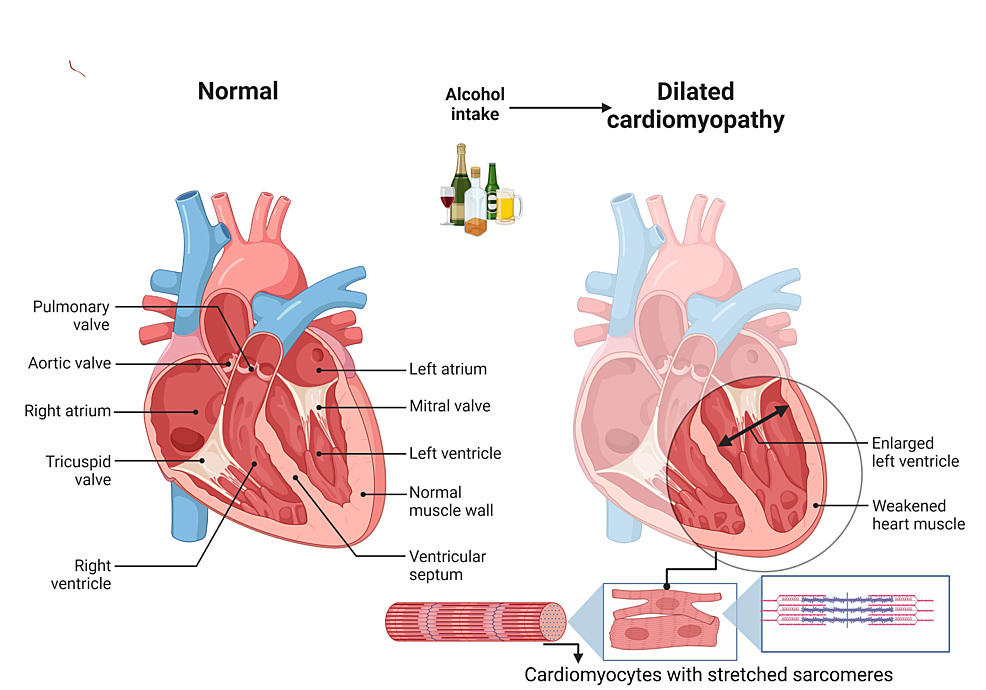
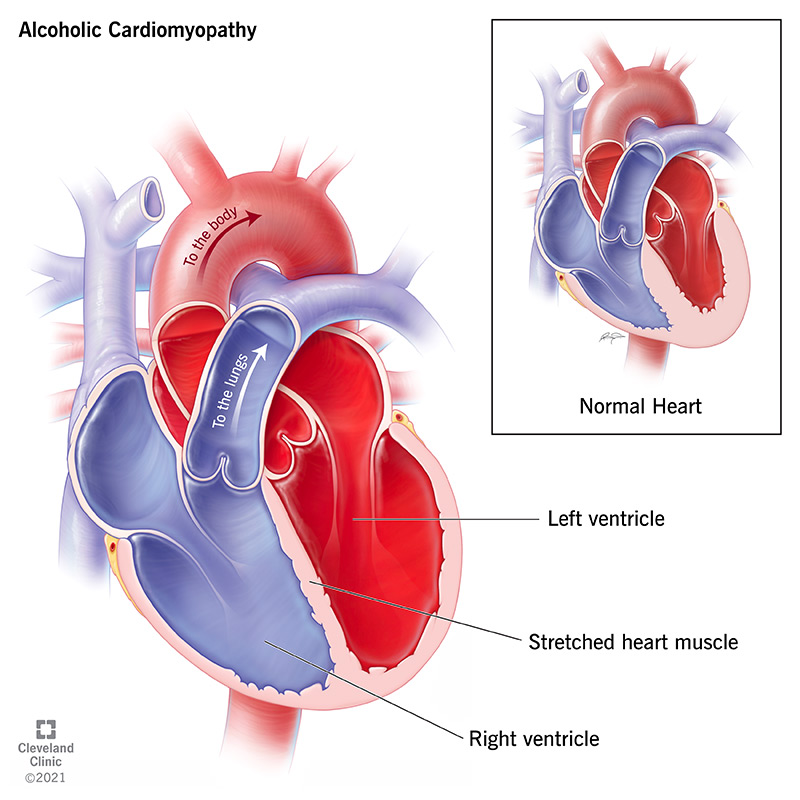
image

diff --git a/site/branding.html b/site/branding.html
@@ -132,7 +132,7 @@
 					</aside>
 					
 					<div class="brain-pic">
-						<img src="../image/brain.JPG">
+						<img src="../image/brain.png">
 					</div>
 					<section class="brain">
 							<h4>Brain</h4> 
@@ -154,7 +154,7 @@
 						</ul>
 					</section>
 					<div class="liver-pic">
-						<img src="../image/liver.JPG">
+						<img src="../image/liver.png">
 					</div>
 					<section class="liver">
 						<ul>
